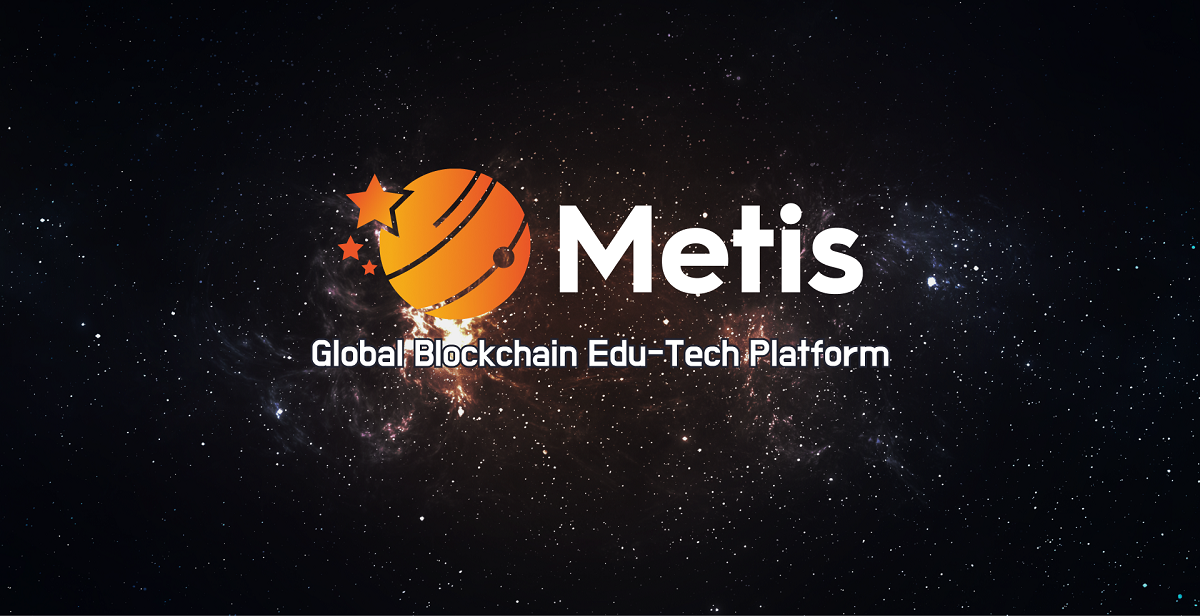
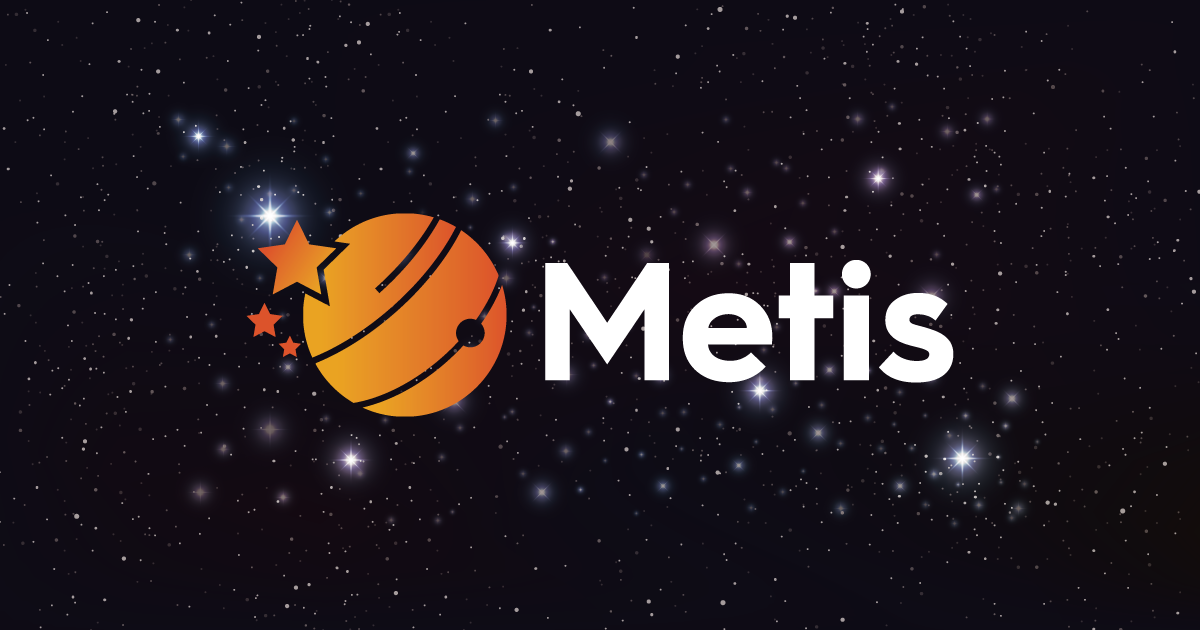
CLN: change meta tag image and update url

diff --git a/index.html b/index.html
@@ -73,8 +73,8 @@
                         <li><a href="#Team">Team</a></li>
                         <li><a href="#Partner">Partner</a></li>
                         <li><a href="#News">News</a></li>
-                        <a href="https://drive.google.com/file/d/1d1WWZKrjtxSqJ3eFeRccDbdRDbZpv3At/view" target="_blank"
-                            class="header-btn btn--primary paper">white paper</a>
+                        <a href="https://drive.google.com/drive/folders/1lEkiD6r4UhXDHpNjzizcTvIUhf0kLD4f?usp=sharing"
+                            target="_blank" class="header-btn btn--primary paper">white paper</a>
                     </ul>
                 </nav>
 

diff --git a/css/main_xsmall.css b/css/main_xsmall.css
@@ -46,6 +46,10 @@
     margin: 20px auto;
 }
 
+.hiddenbox {
+    top: -525px;
+    height: 60px;
+}
 
 
 /* ROADMAP */
